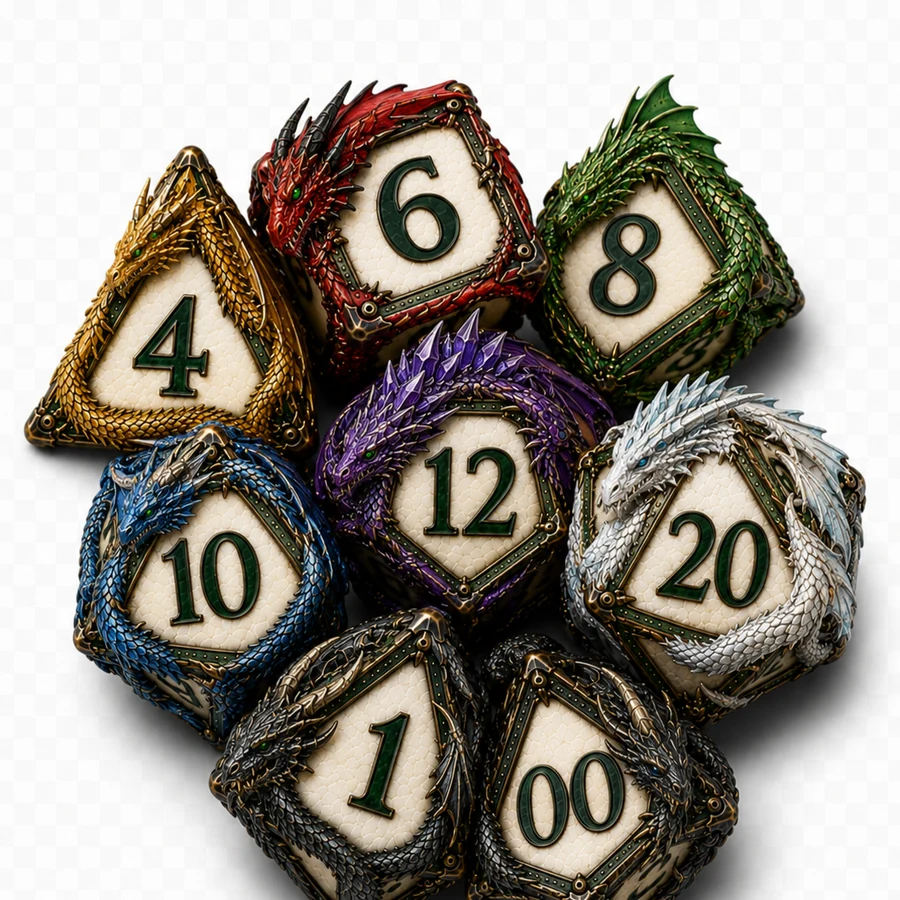
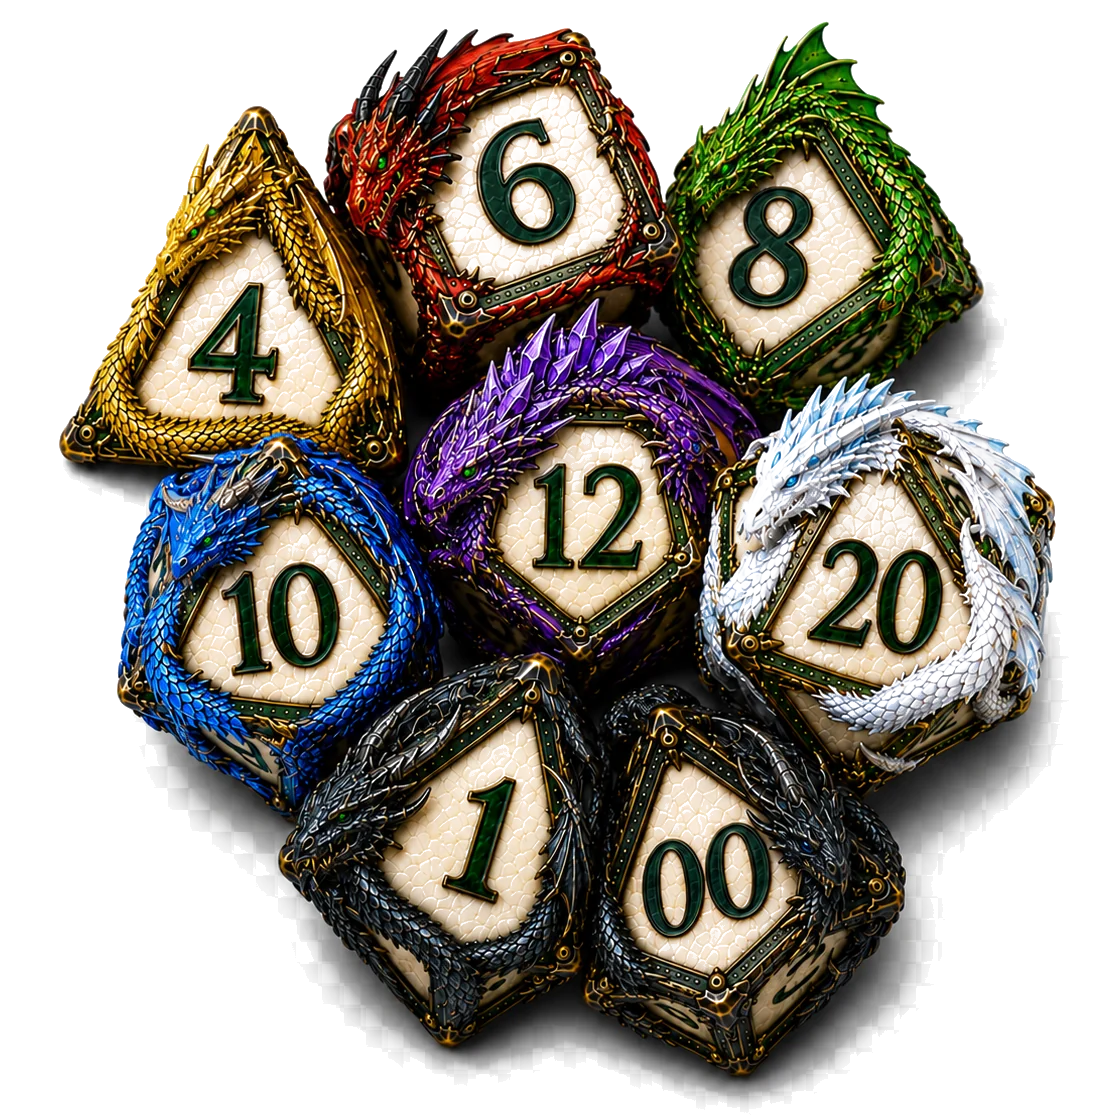
Build 1.13.9

diff --git a/app/globals.css b/app/globals.css
@@ -7773,32 +7773,35 @@ body .start-choice.start-choice--selected:focus-visible :where(strong, span) {
   font-weight: 900 !important;
   line-height: 1 !important;
 }
-/* The dragon dice artwork is the die picker. A simple three-column hit grid
-   keeps the interaction reliable without pretending the irregular dice shapes
-   are image-map polygons. The bottom percentile pair is one d100 target. */
+/* The dragon dice pile is the die picker. The artwork sits directly on the
+   Play plaque with its own shadows; there is no card, frame, hover tint, or
+   visible mouse grid around it. Rectangular hit areas remain for reliable
+   input, with keyboard focus as the only revealed grid furniture. */
 .aigm-dice-art-selector {
   position: relative;
   width: 100%;
   aspect-ratio: 1;
-  overflow: hidden;
-  border: 2px solid var(--rpgyw-brass-mid);
-  border-radius: 18px;
-  background: var(--rpgyw-cream);
-  box-shadow:
-    inset 0 0 0 1px color-mix(in srgb, var(--rpgyw-brass-light) 72%, var(--rpgyw-cream)),
-    0 2px 0 var(--rpgyw-brass-dark),
-    0 5px 10px rgb(37 44 36 / .10);
+  overflow: visible;
+  border: 0;
+  border-radius: 0;
+  background: transparent;
+  box-shadow: none;
+  isolation: isolate;
 }
 .aigm-dice-art-image {
+  position: relative;
+  z-index: 1;
   display: block;
   width: 100%;
   height: 100%;
-  object-fit: cover;
+  object-fit: contain;
+  transform: translateY(-2%);
   user-select: none;
   pointer-events: none;
 }
 .aigm-dice-art-grid {
   position: absolute;
+  z-index: 2;
   inset: 0;
   display: grid;
   grid-template-columns: repeat(3, minmax(0, 1fr));
@@ -7808,11 +7811,11 @@ body .start-choice.start-choice--selected:focus-visible :where(strong, span) {
   position: relative;
   min-width: 0;
   min-height: 0;
-  border: 1px solid transparent !important;
-  border-radius: 12px !important;
+  border: 0 !important;
+  border-radius: 0 !important;
   background: transparent !important;
   padding: 0;
-  color: var(--rpgyw-cream) !important;
+  color: transparent !important;
   box-shadow: none !important;
   cursor: pointer;
 }
@@ -7820,15 +7823,10 @@ body .start-choice.start-choice--selected:focus-visible :where(strong, span) {
   grid-column: 1 / 4;
   grid-row: 3;
 }
-.medieval-page--play .aigm-dice-art-button:not(:disabled):hover,
-.medieval-page--play .aigm-dice-art-button:not(:disabled):focus-visible {
-  border: 2px solid var(--rpgyw-brass-light) !important;
-  background: color-mix(in srgb, var(--rpgyw-forest) 20%, transparent) !important;
-  color: var(--rpgyw-lime) !important;
-  box-shadow:
-    inset 0 0 0 2px color-mix(in srgb, var(--rpgyw-cream) 54%, transparent),
-    inset 0 0 18px rgb(0 0 0 / .12) !important;
-  outline: none;
+.medieval-page--play .aigm-dice-art-button:not(:disabled):hover {
+  border: 0 !important;
+  background: transparent !important;
+  box-shadow: none !important;
 }
 .medieval-page--play .aigm-dice-art-button:focus-visible {
   outline: 3px solid var(--rpgyw-lime);
@@ -7836,33 +7834,43 @@ body .start-choice.start-choice--selected:focus-visible :where(strong, span) {
 }
 .medieval-page--play .aigm-dice-art-button:disabled {
   cursor: not-allowed;
-  background: rgb(246 234 212 / .35) !important;
+  background: transparent !important;
 }
-.aigm-dice-art-label {
+.aigm-dice-selection-feedback {
   position: absolute;
-  right: .38rem;
-  bottom: .32rem;
-  display: inline-flex;
-  align-items: center;
-  justify-content: center;
-  min-width: 2rem;
-  border: 2px solid var(--rpgyw-brass-light);
-  border-radius: 999px;
-  background: rgb(0 60 45 / .84);
-  padding: .15rem .38rem;
-  color: var(--rpgyw-cream);
-  font-size: .7rem;
-  font-weight: 800;
-  line-height: 1;
-  opacity: 0;
-  transform: translateY(2px);
-  transition: opacity .12s ease, transform .12s ease;
+  z-index: 4;
+  inset: 0;
+  display: grid;
+  place-items: center;
+  pointer-events: none;
+  font-family: Georgia, Cambria, "Times New Roman", serif;
+  font-size: clamp(7.5rem, 15vw, 11.5rem);
+  font-weight: 900;
+  letter-spacing: -.08em;
+  line-height: .82;
+  transform: translateY(-1%);
 }
-.aigm-dice-art-button:hover .aigm-dice-art-label,
-.aigm-dice-art-button:focus-visible .aigm-dice-art-label {
-  color: var(--rpgyw-lime) !important;
-  opacity: 1;
-  transform: translateY(0);
+.aigm-dice-selection-feedback[data-die-length="3"] {
+  font-size: clamp(6.25rem, 12vw, 9rem);
+}
+.aigm-dice-selection-feedback[data-die-length="4"] {
+  font-size: clamp(5rem, 10vw, 7rem);
+}
+.aigm-dice-selection-feedback-layer {
+  grid-area: 1 / 1;
+  paint-order: stroke fill;
+}
+.aigm-dice-selection-feedback-layer--cream {
+  color: var(--rpgyw-lime);
+  -webkit-text-stroke: 16px var(--rpgyw-cream);
+  text-shadow: 0 6px 10px rgb(0 0 0 / .28);
+}
+.aigm-dice-selection-feedback-layer--black {
+  color: var(--rpgyw-lime);
+  -webkit-text-stroke: 10px #101815;
+}
+.aigm-dice-selection-feedback-layer--lime {
+  color: var(--rpgyw-lime);
 }
 
 /* Character addition is an ordinary compact action, not a full-width card. */

diff --git a/components/aigm/aigm-gameplay-shell.tsx b/components/aigm/aigm-gameplay-shell.tsx
@@ -1293,6 +1293,7 @@ export function AigmGameplayShell() {
   const [diceQuantity, setDiceQuantity] = useState(1)
   const [lastRoll, setLastRoll] = useState<string | null>(null)
   const [pendingDice, setPendingDice] = useState<string | null>(null)
+  const [dieSelectionFeedback, setDieSelectionFeedback] = useState<string | null>(null)
   const [showJumpButton, setShowJumpButton] = useState(false)
   const [ownerGodModeActive, setOwnerGodModeActive] = useState(false)
   const [ownerQaAccess, setOwnerQaAccess] = useState(false)
@@ -1327,6 +1328,11 @@ export function AigmGameplayShell() {
   const initiallyPositionedAdventureRef = useRef<string | null>(null)
   const queuedVoiceTurnRef = useRef<string | null>(null)
   const draftTurnBillingIdRef = useRef<string | null>(null)
+  const dieSelectionFeedbackTimerRef = useRef<number | null>(null)
+
+  useEffect(() => () => {
+    if (dieSelectionFeedbackTimerRef.current !== null) window.clearTimeout(dieSelectionFeedbackTimerRef.current)
+  }, [])
 
   useEffect(() => {
     if (!mobilePanelFocusReadyRef.current) {
@@ -2288,6 +2294,12 @@ export function AigmGameplayShell() {
 
   function rollDice(sides: number) {
     if (gameplay.dice_mode === 'purist' && lastRoll) return
+    if (dieSelectionFeedbackTimerRef.current !== null) window.clearTimeout(dieSelectionFeedbackTimerRef.current)
+    setDieSelectionFeedback(`d${sides}`)
+    dieSelectionFeedbackTimerRef.current = window.setTimeout(() => {
+      setDieSelectionFeedback(null)
+      dieSelectionFeedbackTimerRef.current = null
+    }, 650)
     const results = Array.from({ length: diceQuantity }, () => rollDie(sides))
     const total = results.reduce((sum, value) => sum + value, 0)
     const label = `${diceQuantity}d${sides}: ${results.join(', ')}${diceQuantity > 1 ? ` (total ${total})` : ''}`
@@ -2431,11 +2443,18 @@ export function AigmGameplayShell() {
               <Image
                 src="/images/dragon-dice-selector.webp"
                 alt=""
-                width={900}
-                height={900}
+                width={1120}
+                height={1120}
                 sizes="(max-width: 860px) min(92vw, 360px), 260px"
                 className="aigm-dice-art-image"
               />
+              {dieSelectionFeedback && (
+                <div className="aigm-dice-selection-feedback" data-die-length={dieSelectionFeedback.length} aria-hidden="true">
+                  <span className="aigm-dice-selection-feedback-layer aigm-dice-selection-feedback-layer--cream">{dieSelectionFeedback}</span>
+                  <span className="aigm-dice-selection-feedback-layer aigm-dice-selection-feedback-layer--black">{dieSelectionFeedback}</span>
+                  <span className="aigm-dice-selection-feedback-layer aigm-dice-selection-feedback-layer--lime">{dieSelectionFeedback}</span>
+                </div>
+              )}
               <div className="aigm-dice-art-grid" aria-hidden="false">
                 {DICE.slice(0, 6).map((sides, index) => (
                   <button
@@ -2447,9 +2466,7 @@ export function AigmGameplayShell() {
                     style={{ gridColumn: (index % 3) + 1, gridRow: Math.floor(index / 3) + 1 }}
                     aria-label={`Roll d${sides}`}
                     title={`Roll d${sides}`}
-                  >
-                    <span className="aigm-dice-art-label">d{sides}</span>
-                  </button>
+                  />
                 ))}
                 <button
                   type="button"
@@ -2458,9 +2475,7 @@ export function AigmGameplayShell() {
                   className="aigm-dice-art-button aigm-dice-art-button--percentile"
                   aria-label="Roll d100 percentile dice"
                   title="Roll d100"
-                >
-                  <span className="aigm-dice-art-label">d100</span>
-                </button>
+                />
               </div>
             </div>
             {lastRoll && (

diff --git a/lib/version.ts b/lib/version.ts
@@ -1,1 +1,1 @@
-export const APP_VERSION = '1.13.8'
+export const APP_VERSION = '1.13.9'

diff --git a/UI-LOOKBOOK.md b/UI-LOOKBOOK.md
@@ -916,7 +916,7 @@ These are current composition rules that sit on top of the canonical primitives 
 
 - The compact **Current party / Max party size** plaque stays fully inside the character rail and never clips or forces horizontal overflow.
 - Dice quantity uses a rounded recessed opening. The quantity is large forest text at rest.
-- Die type selection uses the dragon-dice artwork as one square interactive tray: a simple three-column hit grid covers d4/d6/d8, d10/d12/d20, and the bottom percentile pair as d100. Hit areas may be rectangular rather than tracing the irregular die silhouettes; hover/focus reveals the active area without obscuring the artwork.
+- Die type selection uses the dragon-dice pile directly on the Play plaque with no surrounding card or visible mouse grid. A simple three-column hit grid covers d4/d6/d8, d10/d12/d20, and the bottom percentile pair as d100. Clicking a target briefly shows one large center-centered `dX` label over the entire pile; the label is lime with a black outline and cream outer edge, while the normal roll result remains below. Keyboard focus may reveal its rectangular hit area for accessibility.
 - **Can I direct my game?** lives inside expanded Session tools rather than as a permanent second control.
 - **Add another character** is a compact action button, not a full-width card.
 - Gameplay text input has rounded inner corners and remains inside the composer bezel.
